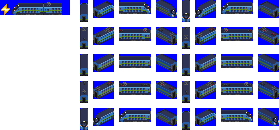
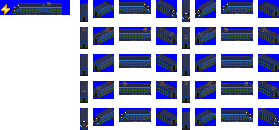
2023.06.24 1.06 업데이트

diff --git a/README.md b/README.md
@@ -12,12 +12,12 @@
 현 공개된 최근 버전<br>
 [인게임] ``1.00.4``
 ```
-[깃허브] 1.05
-[사운드추가]
-- [N량] MEL-150 [DTS]
-
-[그래픽 변경]
-- [기관차연결] 평판화차 [DTS], [기관차연결] 평판유조 화차 [DTS], [N량] MEL-150 [DTS]
+[깃허브] 1.06
+[변경]
+- [N량] N700계 [DTS] 열차편성 조정 / 16량 산요,도카이도 용, 8량 큐슈용 각 단일화
+- [N량] N700S계 [DTS] 열차편성 조정 / 16량 산요,도카이도 용, 6량 니시큐슈용 각 단일화
+- 신칸센 전차량` 출력조정
+- [N량] 비츠로 [DTS], [6량] 비츠로 [DTS] 그래픽 변경
 ```
 <br>
 <details>
